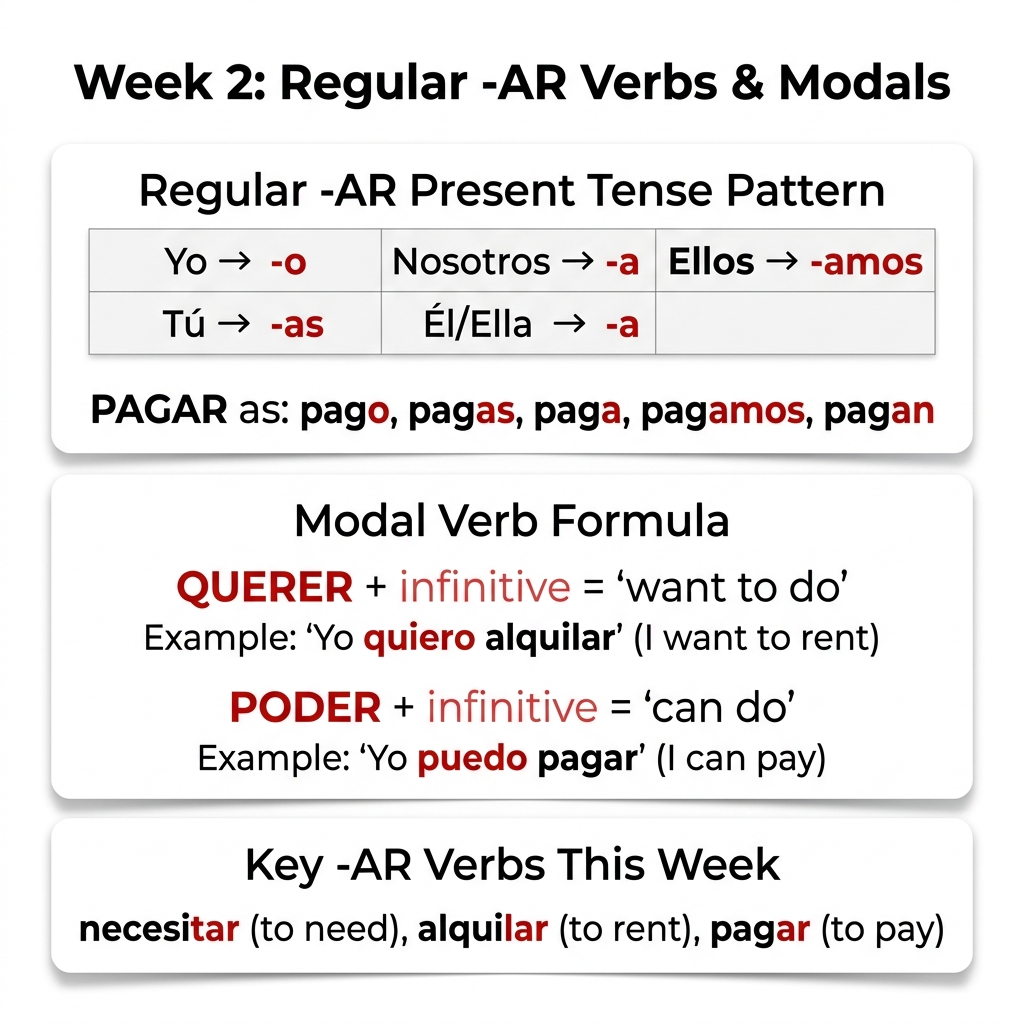
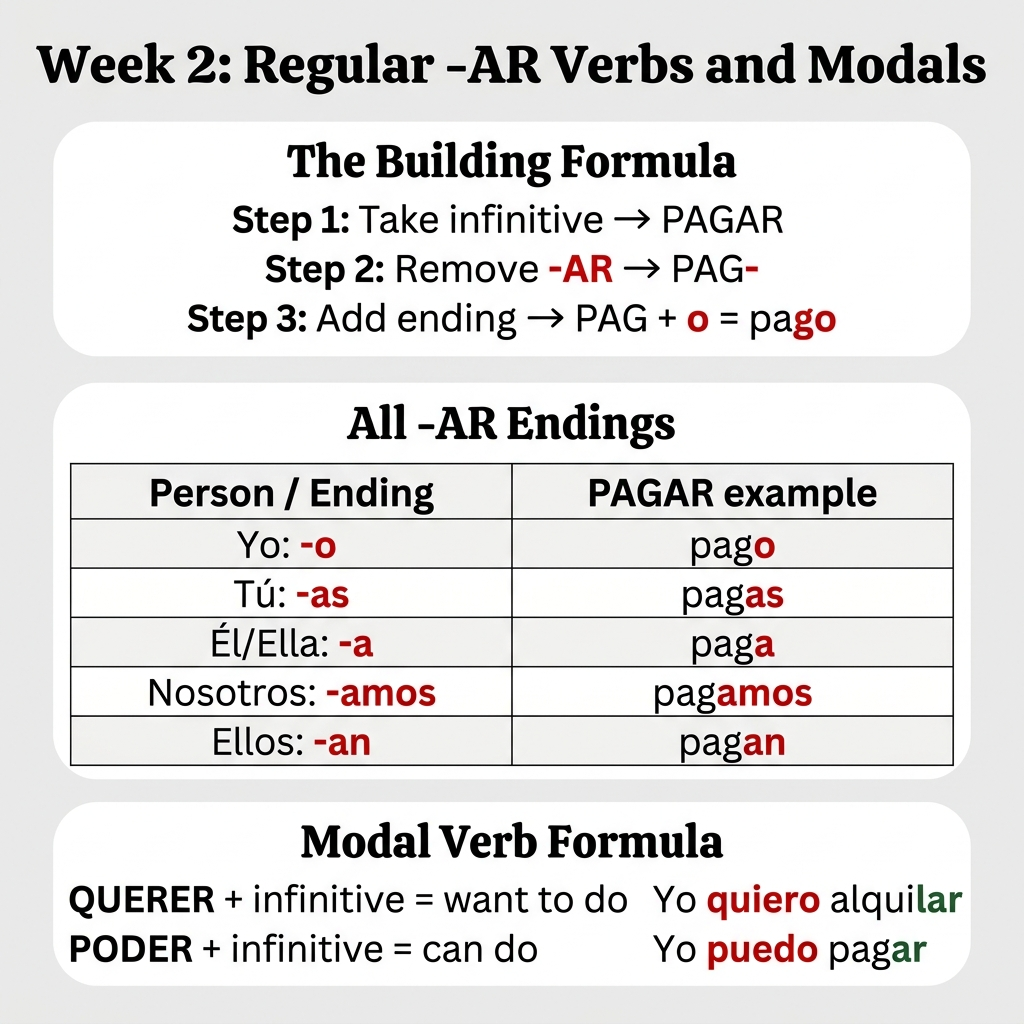
feat(curriculum): redesign theory infographics with building-blocks philosophy

diff --git a/data/week_5.js b/data/week_5.js
@@ -313,8 +313,8 @@ export default {
   ],
   lessons: week5Lessons,
   theory: {
-    title: "The Past Switch: Pretérito Indefinido",
-    subtitle: "-AR: -é/-ó · -ER/-IR: -í/-ió · The Accent Rule",
+    title: "The Past Switch (Pretérito)",
+    subtitle: "Building formula: Present → Past · What changes for each group",
     image: "/theory/week_5.png",
   },
 };

diff --git a/data/week_1.js b/data/week_1.js
@@ -345,7 +345,7 @@ export default {
   lessons: week1Lessons,
   theory: {
     title: "Skeleton Grammar & SER vs ESTAR",
-    subtitle: "Subject Pronouns · SER (permanent) vs ESTAR (temporary) · Core Verb Pattern",
+    subtitle: "Full SER vs ESTAR tables · IR & TENER tables · All persons",
     image: "/theory/week_1.png",
   },
 };

diff --git a/data/week_3.js b/data/week_3.js
@@ -215,7 +215,7 @@ export default {
   lessons: week3Lessons,
   theory: {
     title: "Adjective Agreement & Negation",
-    subtitle: "Gender: -o/-a · SER vs ESTAR with Adjectives · NO + Verb Pattern",
+    subtitle: "Gender: -o/-a · Plural: -os/-as · SER vs ESTAR · Negation",
     image: "/theory/week_3.png",
   },
 };

diff --git a/data/week_2.js b/data/week_2.js
@@ -215,7 +215,7 @@ export default {
   lessons: week2Lessons,
   theory: {
     title: "Regular -AR Pattern & Modals",
-    subtitle: "-AR Verb Endings · QUERER/PODER + Infinitive · Practical Verbs",
+    subtitle: "Building formula: Stem + Ending · QUERER/PODER + Infinitive",
     image: "/theory/week_2.png",
   },
 };
